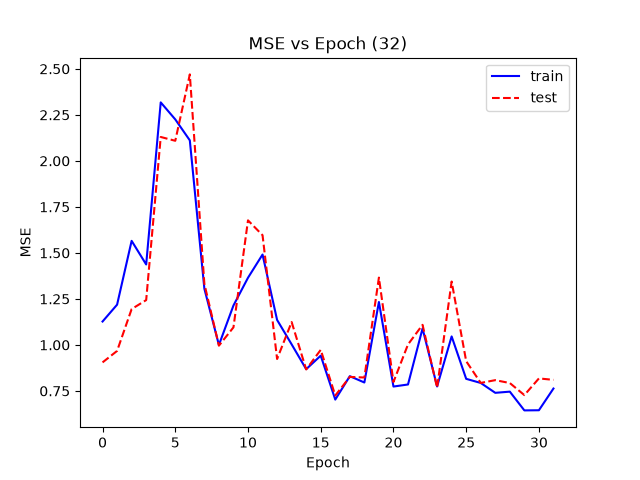
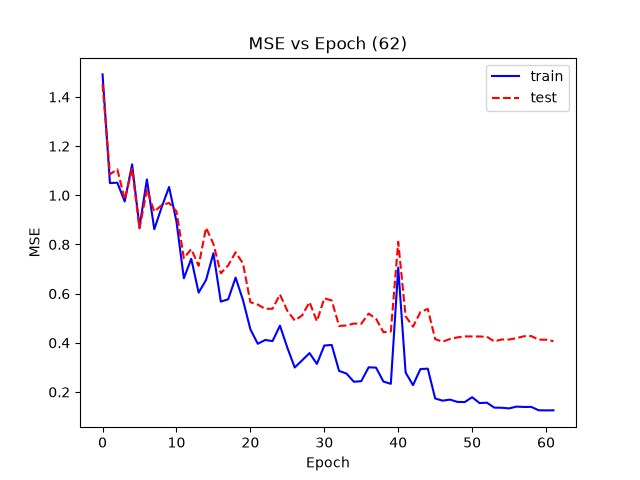
checking whether there are things to push

diff --git a/code/train_test.py b/code/train_test.py
@@ -104,7 +104,7 @@ def test(mol_loader, sol_loader, no_eval=True, print_diff=False):
   else:
     return 0.0
 
-early_stopper = EarlyStop(15, 0.0005)
+early_stopper = EarlyStop(9, 0.0005)
 
 # Train & Test the Model
 with open("./data/plot-data/MSE.txt", "w") as f_: